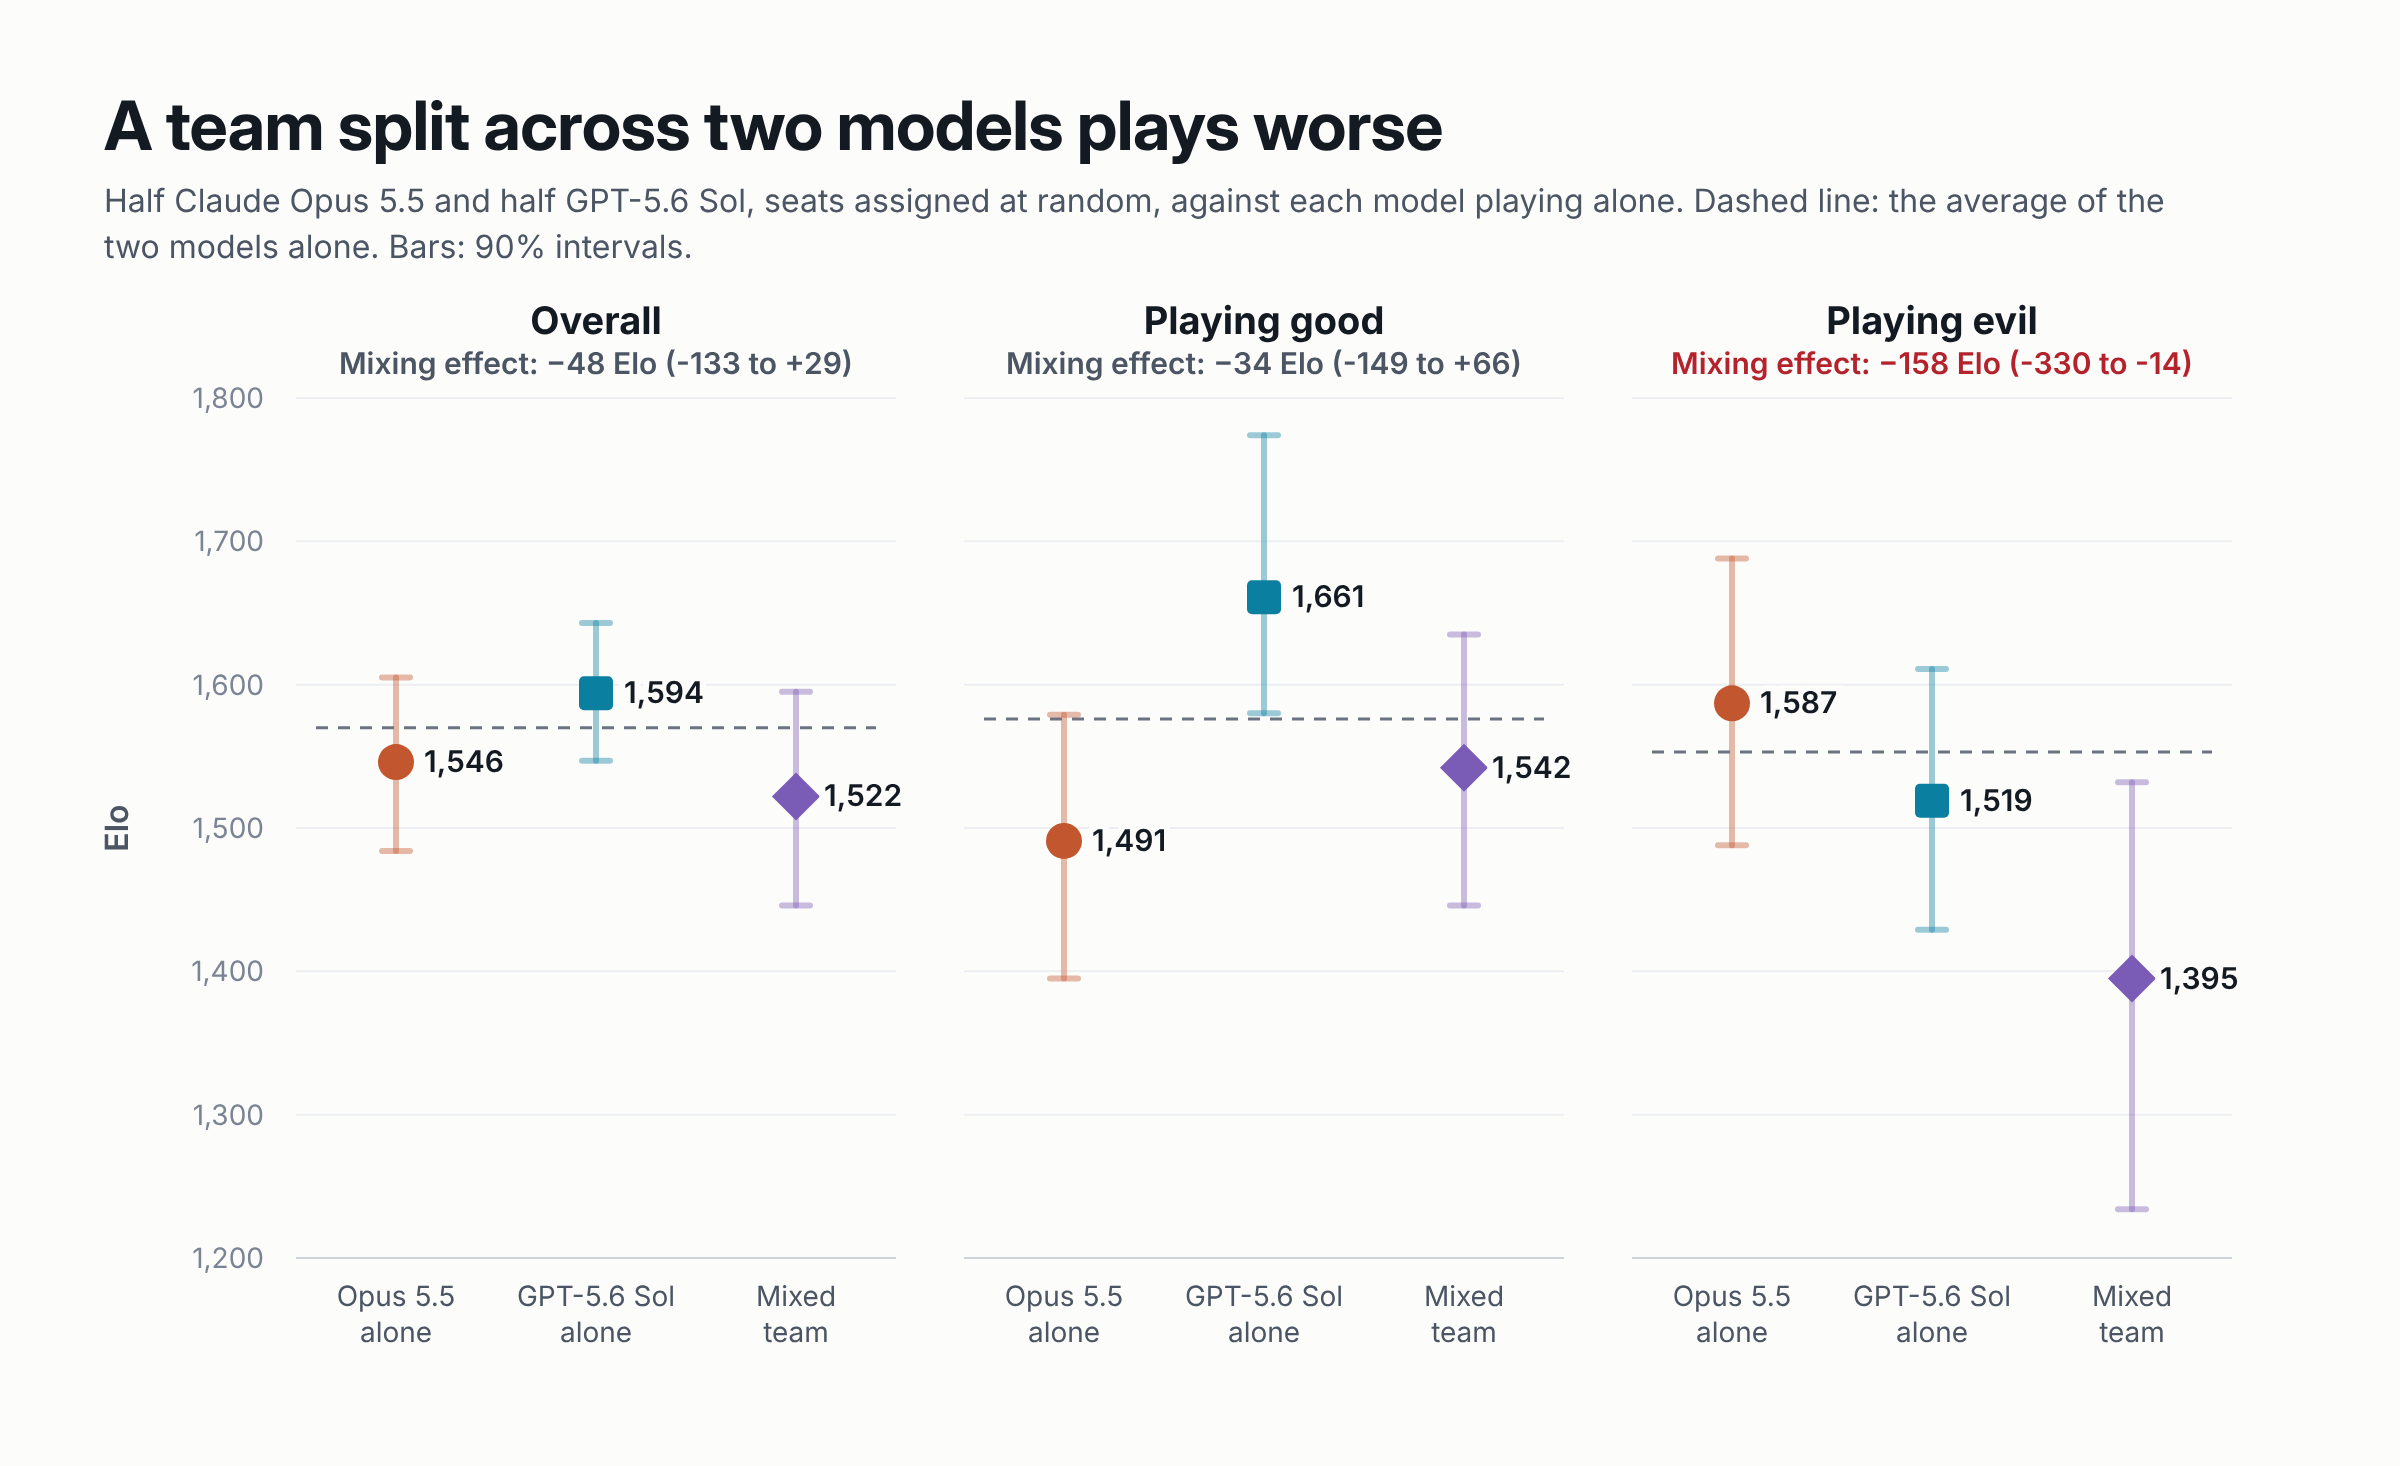
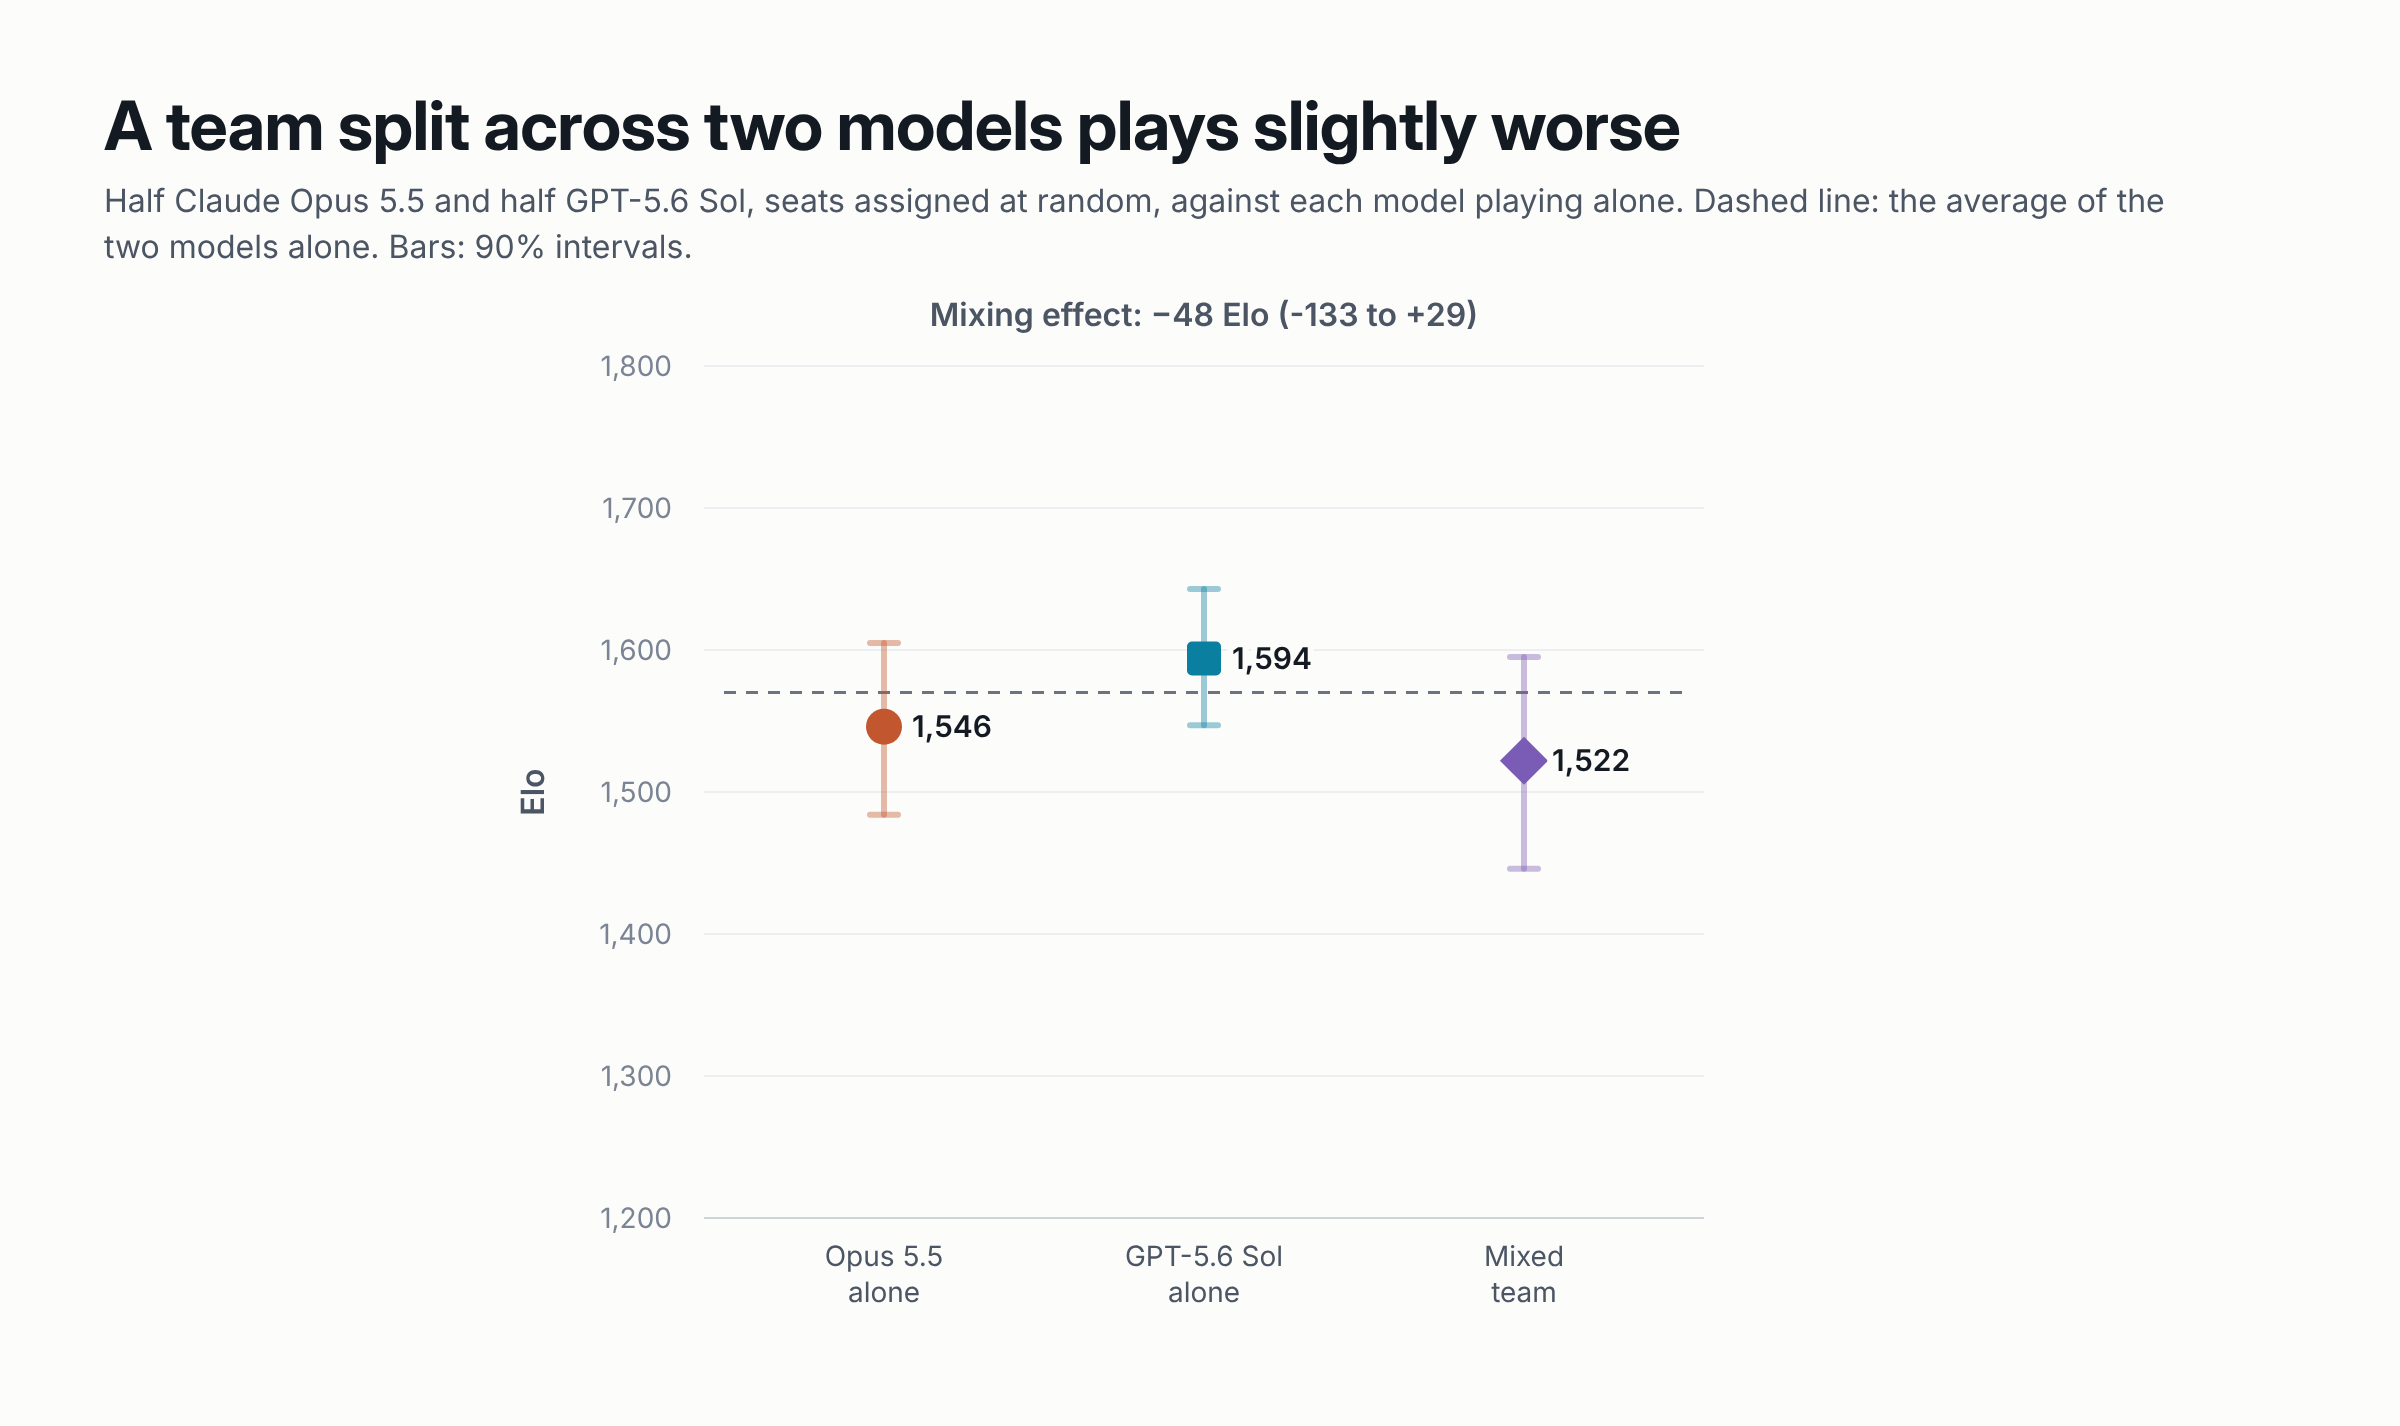
Mixed-team figure: overall panel only
Claude-Session: https://claude.ai/code/session_01NeG7uqGziC8ecmubxuFhiw

diff --git a/docs/charts/mixed-team.html b/docs/charts/mixed-team.html
@@ -9,7 +9,7 @@ h1{font:700 34px/1.15 "Inter Display",Inter,sans-serif;margin:0 0 6px;letter-spa
 svg text{font-family:Inter,sans-serif}
 </style>
 <div class="wrap">
-  <h1>A team split across two models plays worse</h1>
+  <h1>A team split across two models plays slightly worse</h1>
   <p class="sub">Half Claude Opus 5.5 and half GPT-5.6 Sol, seats assigned at random, against each model playing alone. Dashed line: the average of the two models alone. Bars: 90% intervals.</p>
   <svg id="c"></svg>
 </div>
@@ -17,24 +17,24 @@ svg text{font-family:Inter,sans-serif}
 const R=__DATA__;
 const NS='http://www.w3.org/2000/svg',svg=document.getElementById('c');
 const el=(t,a,x)=>{const e=document.createElementNS(NS,t);for(const k in a)e.setAttribute(k,a[k]);if(x!=null)e.textContent=x;svg.appendChild(e);return e};
-const W=1096,H=560,T=60,B=70,lo=1200,hi=1800,y=v=>T+(hi-v)/(hi-lo)*(H-T-B);
+const W=1096,H=540,T=44,B=70,lo=1200,hi=1800,y=v=>T+(hi-v)/(hi-lo)*(H-T-B);
 svg.setAttribute('width',W);svg.setAttribute('height',H);
-el('text',{x:12,y:(T+H-B)/2,'text-anchor':'middle','font-size':16,'font-weight':600,fill:'#4b5563',transform:`rotate(-90 12 ${(T+H-B)/2})`},'Elo');
-for(let v=lo;v<=hi;v+=100)el('text',{x:80,y:y(v)+5,'text-anchor':'end','font-size':14,fill:'#7b8494'},v.toLocaleString('en-US'));
+el('text',{x:220,y:(T+H-B)/2,'text-anchor':'middle','font-size':16,'font-weight':600,fill:'#4b5563',transform:`rotate(-90 220 ${(T+H-B)/2})`},'Elo');
+for(let v=lo;v<=hi;v+=100)el('text',{x:284,y:y(v)+5,'text-anchor':'end','font-size':14,fill:'#7b8494'},v.toLocaleString('en-US'));
 const S=[['claude-opus-5-5','Opus 5.5\nalone','#C2562E','c'],['gpt-5.6-sol','GPT-5.6 Sol\nalone','#0A7FA0','s'],['mixed','Mixed\nteam','#7a5bb5','d']];
-const P=[['combined','Overall'],['detection','Playing good'],['deception','Playing evil']];
-P.forEach(([k,title],i)=>{const x0=96+i*334,x1=x0+300,r=R[k];
-  el('text',{x:(x0+x1)/2,y:28,'text-anchor':'middle','font-size':19,'font-weight':700,fill:'#141a22'},title);
+const P=[['combined','Overall']];
+P.forEach(([k,title],i)=>{const x0=300,x1=800,r=R[k];
+  
   for(let v=lo;v<=hi;v+=100)el('line',{x1:x0,x2:x1,y1:y(v),y2:y(v),stroke:v===lo?'#cfd4db':'#eceef1'});
   const avg=r.members_mean[0];
   el('line',{x1:x0+10,x2:x1-10,y1:y(avg),y2:y(avg),stroke:'#6b7280','stroke-width':1.5,'stroke-dasharray':'6 5'});
-  S.forEach(([id,label,c,shape],j)=>{const cx=x0+50+j*100,[v,[a,b]]=r[id],st={stroke:c,'stroke-width':3,'stroke-linecap':'round','stroke-opacity':.4};
+  S.forEach(([id,label,c,shape],j)=>{const cx=x0+90+j*160,[v,[a,b]]=r[id],st={stroke:c,'stroke-width':3,'stroke-linecap':'round','stroke-opacity':.4};
     el('line',{x1:cx,x2:cx,y1:y(a),y2:y(b),...st});for(const q of [a,b])el('line',{x1:cx-7,x2:cx+7,y1:y(q),y2:y(q),...st});
     if(shape==='c')el('circle',{cx,cy:y(v),r:9,fill:c});
     else if(shape==='s')el('rect',{x:cx-8.5,y:y(v)-8.5,width:17,height:17,rx:2.5,fill:c});
     else el('rect',{x:cx-8.5,y:y(v)-8.5,width:17,height:17,fill:c,transform:`rotate(45 ${cx} ${y(v)})`});
     el('text',{x:cx+14,y:y(v)+5,'font-size':15,'font-weight':600,fill:'#141a22',stroke:'#fcfcfb','stroke-width':6,'paint-order':'stroke'},v.toLocaleString('en-US'));
     label.split('\n').forEach((ln,li)=>el('text',{x:cx,y:H-B+24+li*18,'text-anchor':'middle','font-size':14,fill:'#4b5563'},ln))});
-  const e=r.effect[0];el('text',{x:(x0+x1)/2,y:48,'text-anchor':'middle','font-size':15,fill:e<-100?'#b4232c':'#4b5563','font-weight':600},`Mixing effect: ${e>0?'+':'−'}${Math.abs(e)} Elo (${r.effect[1][0]} to ${r.effect[1][1]>0?'+':''}${r.effect[1][1]})`);
+  const e=r.effect[0];el('text',{x:(x0+x1)/2,y:24,'text-anchor':'middle','font-size':16,fill:e<-100?'#b4232c':'#4b5563','font-weight':600},`Mixing effect: ${e>0?'+':'−'}${Math.abs(e)} Elo (${r.effect[1][0]} to ${r.effect[1][1]>0?'+':''}${r.effect[1][1]})`);
 });
 </script>
